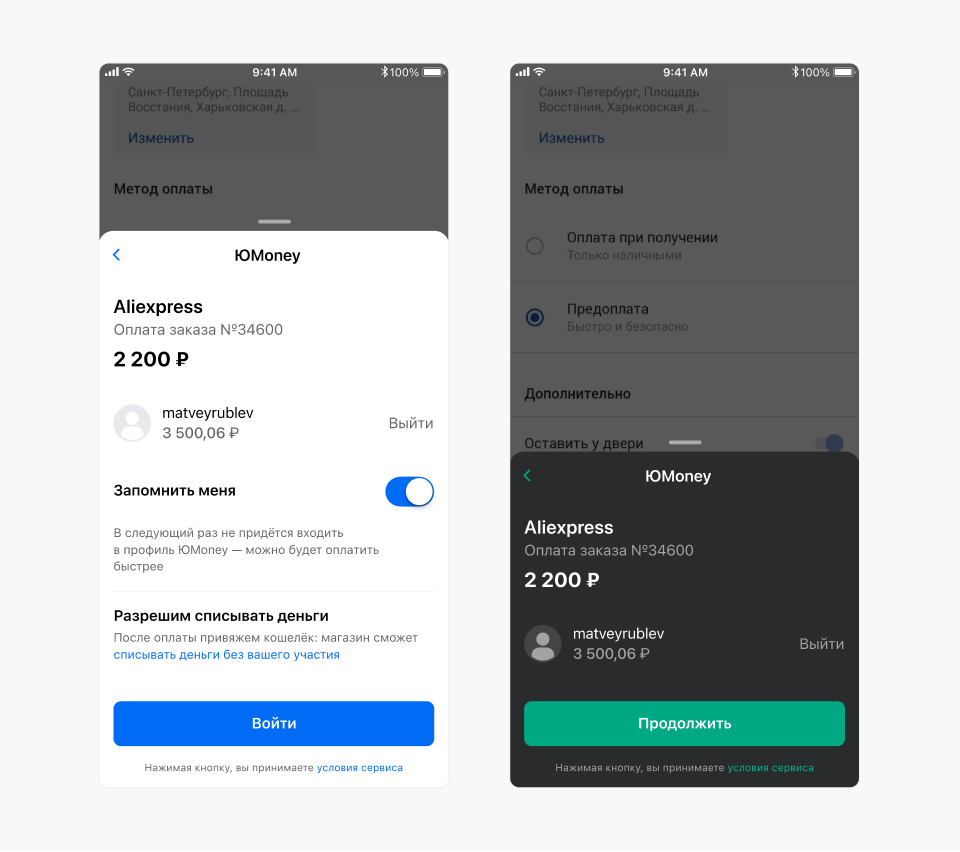
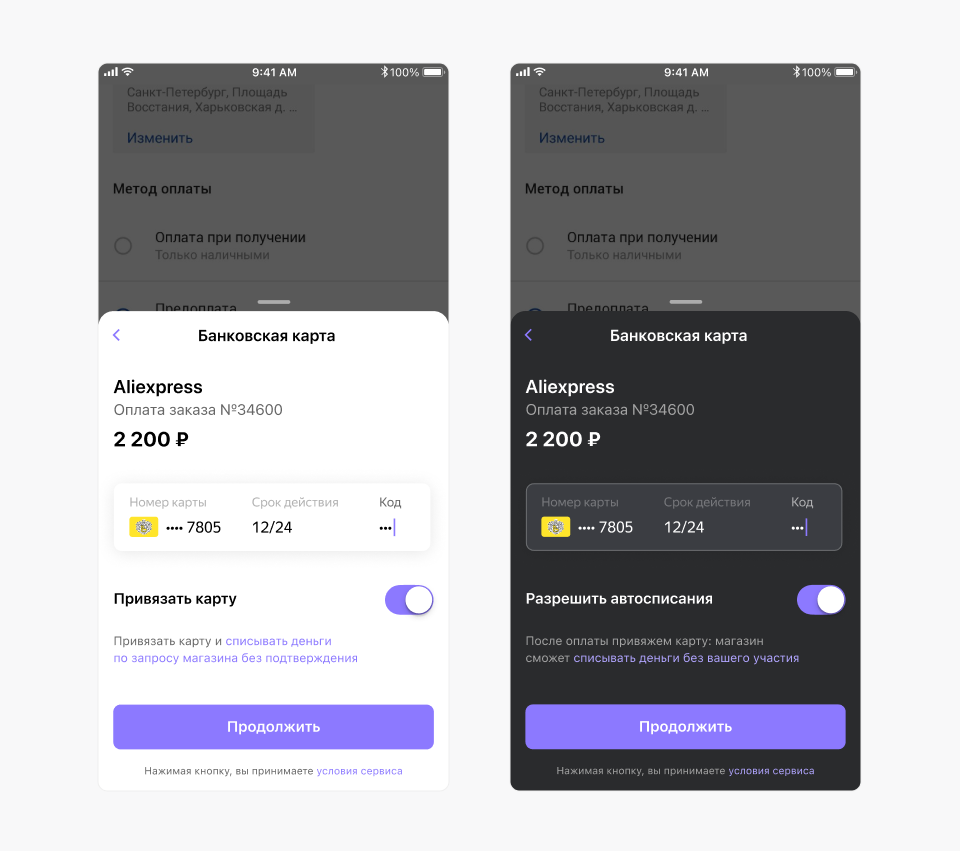
remove EPL from mobile, change msdk customization screen

diff --git a/d67c508a60f0bdc2cb7ffbc58443cf01c8804e70/yoomoney.html b/d67c508a60f0bdc2cb7ffbc58443cf01c8804e70/yoomoney.html
@@ -87,6 +87,7 @@
         .
       </p>
     </div>
+    <!--
     <div class="content__text">
       <h2 class="content__h2">Redirect Form Redesign</h2>
       <p>
@@ -121,7 +122,7 @@
         Adaptive screens
       </p>
     </div>
-
+    -->
 
     <div class="content__text">
       <h2 class="content__h2">Mobile SDK Redesign</h2>
